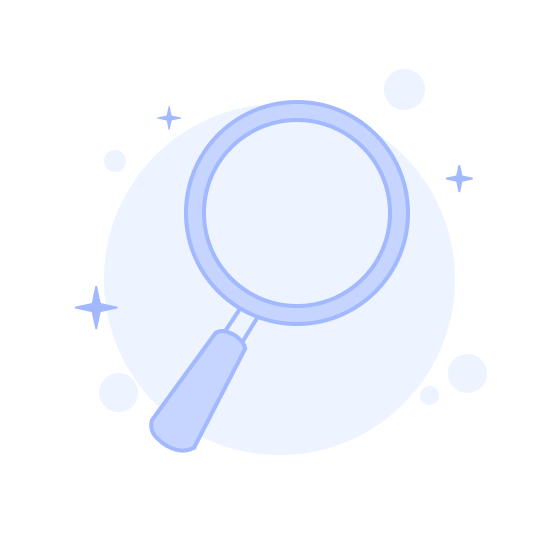
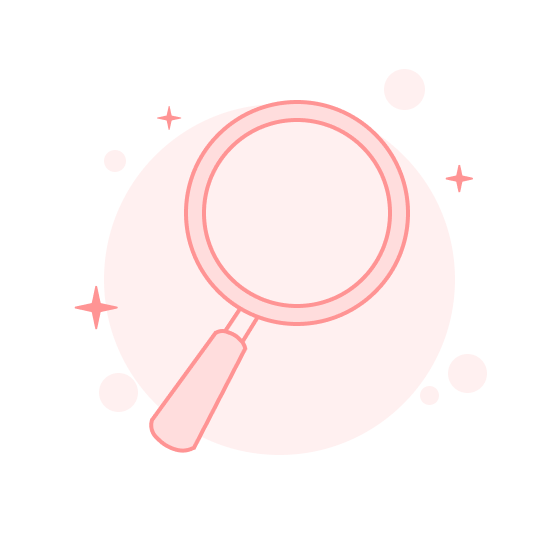
Finishing /ilmu-keuangan

diff --git a/resources/js/Pages/User/Others/Show.vue b/resources/js/Pages/User/Others/Show.vue
@@ -41,7 +41,7 @@
                             <div class="card-body d-flex align-items-center gap-5 p-6">
                                 <div
                                     class="p-6 bg-mysuccess-light rounded-circle d-flex align-items-center justify-content-center">
-                                    <i class="ri-hand-heart-fill text-mysuccess fs-2hx"></i>
+                                    <i class="ri-verified-badge-fill text-mysuccess fs-2hx"></i>
                                 </div>
                                 <div class="d-flex flex-column">
                                     <p class="fs-4 fw-semibold text-gray-800 mb-1">Disetujui</p>
@@ -55,7 +55,7 @@
                             <div class="card-body d-flex align-items-center gap-5 p-6">
                                 <div
                                     class="p-6 bg-mydanger-light rounded-circle d-flex align-items-center justify-content-center">
-                                    <i class="ri-article-fill text-mydanger fs-2hx"></i>
+                                    <i class="ri-close-circle-fill text-mydanger fs-2hx"></i>
                                 </div>
                                 <div class="d-flex flex-column">
                                     <p class="fs-4 fw-semibold text-gray-800 mb-1">Ditolak</p>
@@ -69,7 +69,7 @@
                             <div class="card-body d-flex align-items-center gap-5 p-6">
                                 <div
                                     class="p-6 bg-mywarning-light rounded-circle d-flex align-items-center justify-content-center">
-                                    <i class="ri-article-fill text-mywarning fs-2hx"></i>
+                                    <i class="ri-time-fill text-mywarning fs-2hx"></i>
                                 </div>
                                 <div class="d-flex flex-column">
                                     <p class="fs-4 fw-semibold text-gray-800 mb-1">Pending</p>
@@ -95,7 +95,13 @@
                         </div>
                     </div>
                     <div class="card-body p-0">
-                        <div class="table-responsive">
+                        <div class="text-center border-top border-bottom border-gray-300 py-10 px-6" v-if="datas.data.length === 0">
+                            <img src="/assets/media/illustrations/empty.png"
+                                alt="Tidak ada data" class="mh-300px img-fluid">
+                            <h2 class="text-dark mb-4">Peserta Tidak Ditemukan</h2>
+                            <p class="text-gray-600 fs-4 mb-0">Belum ada peserta atau pencarian tidak sesuai.</p>
+                        </div>
+                        <div class="table-responsive" v-else>
                             <table id="kt_datatable_horizontal_scroll"
                                 class="table align-middle table-row-bordered fs-5 gy-5 border-bottom border-gray-300 mb-0">
                                 <thead>
@@ -109,15 +115,7 @@
                                     </tr>
                                 </thead>
                                 <tbody class="fw-semibold text-gray-600">
-                                    <tr v-if="datas.data.length === 0">
-                                        <td colspan="7" class="text-center py-10">
-                                            <img src="/assets/media/illustrations/empty.png"
-                                                alt="Tidak ada data" class="mh-300px">
-                                            <h2 class="text-gray-800 mb-4">Peserta Tidak Ditemukan</h2>
-                                            <p class="text-gray-600 fs-4">Belum ada peserta atau pencarian tidak sesuai.</p>
-                                        </td>
-                                    </tr>
-                                    <tr v-else v-for="(data, index) in datas.data" :key="index">
+                                    <tr v-for="(data, index) in datas.data" :key="index">
                                         <td class="ps-6">
                                             {{ ++index + (datas . current_page - 1) * datas . per_page }}
                                         </td>
@@ -141,7 +139,7 @@
                                             <span
                                                 class="badge text-capitalize fs-7 px-3 py-2"
                                                 :class="{
-                                                    'bg-mysecondary text-mysecondary': data.status === 'accept',
+                                                    'bg-mysuccess-light text-mysuccess': data.status === 'accept',
                                                     'bg-mywarning-light text-mywarning': data.status === 'pending',
                                                     'bg-mydanger-light text-mydanger': data.status === 'deny'
                                                 }"
@@ -273,11 +271,11 @@
                                     </div>
                                 </div>
                             </div>
-                            <!-- <div class="d-flex gap-4">
+                            <div class="d-flex gap-4">
                                 <button type="button" id="kt_drawer_deny_button"
-                                    class="btn btn-sm btn-mydanger flex-fill fs-5"
+                                    class="btn btn-sm btn-mydanger-solid flex-fill fs-5"
                                     :disabled="selectedData?.status === 'deny'"
-                                    @click="denyData()">
+                                    @click="submit('deny')">
                                     <span class="indicator-label">
                                         {{ selectedData?.status === 'deny' ? 'Ditolak' : 'Tolak' }}
                                     </span>
@@ -285,9 +283,10 @@
                                         Mohon Tunggu... <span class="spinner-border spinner-border-sm align-middle ms-2"></span>
                                     </span>
                                 </button>
-                                <button type="submit" id="kt_drawer_submit_button"
+                                <button type="button" id="kt_drawer_accept_button"
                                     class="btn btn-sm btn-mysuccess-solid flex-fill fs-5"
-                                    :disabled="selectedData?.status === 'accept'">
+                                    :disabled="selectedData?.status === 'accept'"
+                                    @click="submit('accept')">
                                     <span class="indicator-label">
                                         {{ selectedData?.status === 'accept' ? 'Disetujui' : 'Setujui' }}
                                     </span>
@@ -295,7 +294,7 @@
                                         Mohon Tunggu... <span class="spinner-border spinner-border-sm align-middle ms-2"></span>
                                     </span>
                                 </button>
-                            </div> -->
+                            </div>
                         </div>
                     </div>
                 </div>
@@ -361,6 +360,57 @@
                 if (drawerCloseBtn) drawerCloseBtn.click();
             };
 
+            const submit = (status) => {
+                const buttonId = status === 'accept' ? '#kt_drawer_accept_button' : '#kt_drawer_deny_button';
+                const submitBtn = document.querySelector(buttonId);
+
+                if (submitBtn) {
+                    submitBtn.setAttribute('data-kt-indicator', 'on');
+                    submitBtn.setAttribute('disabled', true);
+                }
+
+                const cleanup = () => {
+                    if (submitBtn) {
+                        submitBtn.removeAttribute('data-kt-indicator');
+                        submitBtn.removeAttribute('disabled');
+                    }
+                };
+
+                const payload = new FormData();
+                payload.append('_method', 'PUT');
+                payload.append('status', status);
+
+                router.post(`/data-ilmu-keuangan/${selectedData.value.id}`, payload, {
+                    onSuccess: () => {
+                        Swal.fire({
+                            icon: 'success',
+                            title: 'Berhasil!',
+                            text: status === 'accept'
+                                ? 'Data peserta berhasil disetujui.'
+                                : 'Data peserta berhasil ditolak.',
+                            timer: 2000,
+                            timerProgressBar: true,
+                            showConfirmButton: false,
+                            customClass: { popup: 'swal-custom-icon' }
+                        });
+                        resetForm();
+                    },
+                    onError: () => {
+                        Swal.fire({
+                            icon: 'error',
+                            title: 'Gagal',
+                            text: 'Tidak dapat mengubah status. Coba lagi.',
+                            timer: 2000,
+                            timerProgressBar: true,
+                            showConfirmButton: false,
+                            customClass: { popup: 'swal-custom-icon' }
+                        });
+                    },
+                    onFinish: cleanup,
+                    preserveScroll: true,
+                });
+            };
+
             const editData = (data) => {
                 isEditMode.value = true;
                 selectedData.value = { ...data };
@@ -413,7 +463,7 @@
                 search,
                 handleSearch,
                 form,
-                // submit,
+                submit,
                 destroy,
                 resetForm,
                 editData,

diff --git a/resources/js/Pages/User/Others/Index.vue b/resources/js/Pages/User/Others/Index.vue
@@ -31,7 +31,7 @@
                                 <i class="ri-user-add-fill fs-2"></i>
                                 Daftar Sekarang
                             </a>
-                            <a :href="`https://wa.me/6282191295089?text=${encodeURIComponent('Halo Admin Yanti, Mohon info Smart Financial Map Workshop Chapter Makassar')}`" target="_blank" class="btn btn-sm btn-mywhite rounded-pill fs-5 d-inline-flex align-items-center gap-1 text-nowrap">
+                            <a :href="`https://wa.me/6282191295089?text=${encodeURIComponent('Halo Admin, Mohon info Smart Financial Map Workshop Chapter Makassar')}`" target="_blank" class="btn btn-sm btn-mywhite rounded-pill fs-5 d-inline-flex align-items-center gap-1 text-nowrap">
                                 <i class="ri-whatsapp-fill fs-2"></i>
                                 Hubungi Kami
                             </a>
@@ -867,6 +867,7 @@
     import Dropzone from 'dropzone';
     import Swal from 'sweetalert2';
     import FsLightbox from "fslightbox-vue";
+    import VanillaTilt from "vanilla-tilt";
     import { Swiper, SwiperSlide } from 'swiper/vue';
     import 'swiper/css';
     import 'swiper/css/pagination';
@@ -886,6 +887,16 @@
 
         props: {
             errors: Object,
+        },
+
+        mounted() {
+            const elements = document.querySelectorAll('.bg-gradient-myprimary');
+            VanillaTilt.init(elements, {
+                max: 4,
+                speed: 800,
+                glare: true,
+                "max-glare": 0.2,
+            });
         },
 
         setup() {
@@ -971,36 +982,50 @@
                     image: '/assets/media/illustrations/testi-1.png',
                     name: 'Aditya',
                     business: 'Media & Marketing, Jakarta',
-                    youtube: 'https://www.youtube.com/watch?v=c6CYblRSVEU',
-                    text: 'Bisnis saya bergerak di bidang media dan marketing. Menurut saya, pembahasannya jujur, realistis, dan membantu saya dalam menentukan arah atau keputusan-keputusan strategis di bisnis saya. Kalau teman-teman suka pembelajaran tentang bisnis, strategic partnership, atau investasi keuangan, saya rasa menarik untuk mengikuti Smart Financial Map, karena bagi saya itu sangat membantu.'
+                    youtube: 'https://www.youtube.com/watch?v=i-EutfPJohE',
+                    text: 'Menurut saya, pembahasan di Smart Financial Map by Coach Yuszak sangat realistis dan membantu saya dalam menentukan arah serta keputusan strategis bisnis. Bagi teman-teman yang tertarik dengan pembelajaran bisnis, strategic partnership, atau investasi keuangan, acara ini sangat direkomendasikan.'
                 },
                 {
-                    image: '/assets/media/illustrations/testi-1.png',
-                    name: 'Aditya',
-                    business: 'Media & Marketing, Jakarta',
-                    youtube: 'https://www.youtube.com/watch?v=c6CYblRSVEU',
-                    text: 'Bisnis saya bergerak di bidang media dan marketing. Menurut saya, pembahasannya jujur, realistis, dan membantu saya dalam menentukan arah atau keputusan-keputusan strategis di bisnis saya. Kalau teman-teman suka pembelajaran tentang bisnis, strategic partnership, atau investasi keuangan, saya rasa menarik untuk mengikuti Smart Financial Map, karena bagi saya itu sangat membantu.'
+                    image: '/assets/media/illustrations/testi-2.png',
+                    name: 'Roy',
+                    business: 'Petal Consultant, Jakarta',
+                    youtube: 'https://www.youtube.com/watch?v=5QmYf4Jx52E',
+                    text: 'Bagi saya, SFM adalah salah satu training paling aplikatif. Tidak hanya membahas sisi marketing, tapi juga sisi finansial. Salah satu hal paling berkesan adalah kata Coach Yuszak: “Marketing is dream, finance is reality.” Saya tambahkan sedikit, “Sales is daily life.” Keren banget! Terima kasih!'
                 },
                 {
-                    image: '/assets/media/illustrations/testi-1.png',
-                    name: 'Aditya',
-                    business: 'Media & Marketing, Jakarta',
-                    youtube: 'https://www.youtube.com/watch?v=c6CYblRSVEU',
-                    text: 'Bisnis saya bergerak di bidang media dan marketing. Menurut saya, pembahasannya jujur, realistis, dan membantu saya dalam menentukan arah atau keputusan-keputusan strategis di bisnis saya. Kalau teman-teman suka pembelajaran tentang bisnis, strategic partnership, atau investasi keuangan, saya rasa menarik untuk mengikuti Smart Financial Map, karena bagi saya itu sangat membantu.'
+                    image: '/assets/media/illustrations/testi-3.png',
+                    name: 'Debra Maria',
+                    business: 'Taman Air Spa, Bali',
+                    youtube: 'https://www.youtube.com/watch?v=dGVwo6WkLJM',
+                    text: 'Selama dua hari mengikuti Smart Financial Map, saya merasa materinya sangat detail. Sebelumnya saya ikut CFO class yang lebih strategis, tapi SFM ini lebih dalam dan praktikal. Saya bahkan meminta finance manager saya untuk melupakan dulu ilmu lamanya agar bisa menerima insight baru. Banyak parameter tersembunyi yang ternyata penting untuk pengambilan keputusan CEO. SFM ini benar-benar wajib diikuti para business owner bersama tim finance-nya agar tidak kacamata kuda dalam memutuskan sesuatu. Terima kasih banyak!'
                 },
                 {
-                    image: '/assets/media/illustrations/testi-1.png',
-                    name: 'Aditya',
-                    business: 'Media & Marketing, Jakarta',
-                    youtube: 'https://www.youtube.com/watch?v=c6CYblRSVEU',
-                    text: 'Bisnis saya bergerak di bidang media dan marketing. Menurut saya, pembahasannya jujur, realistis, dan membantu saya dalam menentukan arah atau keputusan-keputusan strategis di bisnis saya. Kalau teman-teman suka pembelajaran tentang bisnis, strategic partnership, atau investasi keuangan, saya rasa menarik untuk mengikuti Smart Financial Map, karena bagi saya itu sangat membantu.'
+                    image: '/assets/media/illustrations/testi-4.png',
+                    name: 'Gusti Sananta',
+                    business: 'Sananta Group, Cibubur',
+                    youtube: 'https://www.youtube.com/watch?v=tuYxnuSR8XM',
+                    text: 'Setelah dua hari mengikuti workshop Coach Yuszak, saya mendapatkan banyak insight baru. Sebagai business owner, kita harus belajar keuangan karena ilmunya sangat bermanfaat. Pesertanya juga antusias dan suasananya positif sekali. Saran saya cuma satu: jangan tunggu lagi, segera daftar dan ikut workshop ini bersama Coach Yuszak!'
                 },
                 {
-                    image: '/assets/media/illustrations/testi-1.png',
-                    name: 'Aditya',
-                    business: 'Media & Marketing, Jakarta',
-                    youtube: 'https://www.youtube.com/watch?v=c6CYblRSVEU',
-                    text: 'Bisnis saya bergerak di bidang media dan marketing. Menurut saya, pembahasannya jujur, realistis, dan membantu saya dalam menentukan arah atau keputusan-keputusan strategis di bisnis saya. Kalau teman-teman suka pembelajaran tentang bisnis, strategic partnership, atau investasi keuangan, saya rasa menarik untuk mengikuti Smart Financial Map, karena bagi saya itu sangat membantu.'
+                    image: '/assets/media/illustrations/testi-5.png',
+                    name: 'Nelson',
+                    business: 'Firemount Living & Fairmont Hardware',
+                    youtube: 'https://www.youtube.com/watch?v=CSh52WLCaw4',
+                    text: 'Workshop ini sangat membantu saya sebagai business owner dan CEO. Di sini kita tidak hanya belajar membaca laporan keuangan, tapi juga memahami berbagai insight dari sudut pandang yang berbeda. Sangat membuka wawasan untuk menentukan strategi bisnis ke depan bersama tim finance. Terima kasih!'
+                },
+                {
+                    image: '/assets/media/illustrations/testi-6.png',
+                    name: 'Vincent',
+                    business: 'Atur Kuliner',
+                    youtube: 'https://www.youtube.com/watch?v=dLP0SuOQfq0',
+                    text: 'Selama dua hari mengikuti Smart Financial Map, jujur saya banyak belajar. Banyak hal praktikal yang dibagikan oleh Coach Yuszak — mulai dari angka-angka penting yang perlu diperhatikan dalam laporan keuangan hingga metrik-metrik yang harus dijaga. Misalnya revenue per employee dan metrik lainnya yang bisa kita analisis dari laporan keuangan. Keren banget sejauh ini! Ayo putus asa, jangan semangat deh pokoknya 😄',
+                },
+                {
+                    image: '/assets/media/illustrations/testi-7.png',
+                    name: 'Nina Damayanti',
+                    business: 'PT. Gunung Subur Sejahtera',
+                    youtube: 'https://www.youtube.com/watch?v=ug6xfXu2hKc',
+                    text: 'Kesan saya terhadap acara Smart Financial Map ini sangat bermanfaat, terutama bagi saya yang awam di bidang keuangan. Banyak keputusan pekerjaan yang ternyata harus mempertimbangkan sisi finansial. Terima kasih banyak, ilmunya sangat membuka wawasan!'
                 },
             ]
 

diff --git a/app/Http/Controllers/User/OtherController.php b/app/Http/Controllers/User/OtherController.php
@@ -5,6 +5,7 @@ namespace App\Http\Controllers\User;
 use App\Http\Controllers\Controller;
 use App\Models\IlmuKeuangan;
 use Illuminate\Http\Request;
+use Illuminate\Support\Facades\Storage;
 
 class OtherController extends Controller
 {
@@ -31,7 +32,7 @@ class OtherController extends Controller
         ], [
             'email.unique'   => 'Email yang Anda masukkan telah terdaftar.',
             'image.required' => 'Bukti transfer tidak boleh kosong.',
-            'image.image'    => 'Bukti transfer blog harus berupa file gambar.',
+            'image.image'    => 'Bukti transfer harus berupa file gambar.',
             'image.mimes'    => 'Bukti transfer harus berekstensi jpg, jpeg, atau png.',
             'image.max'      => 'Ukuran bukti transfer maksimal 10MB.',
         ]);
@@ -76,5 +77,31 @@ class OtherController extends Controller
             'total_pending' => $total_pending,
             'total_accept'  => $total_accept,
         ]);
+    }
+
+    public function update(Request $request, IlmuKeuangan $data)
+    {
+        $request->validate([
+            'status' => 'required',
+        ]);
+
+        $data->update([
+            'status' => $request->status,
+        ]);
+
+        return redirect()->route('user.other.show');
+    }
+
+    public function destroy($id)
+    {
+        $data = IlmuKeuangan::findOrFail($id);
+
+        if ($data->image && Storage::disk('public')->exists($data->image)) {
+            Storage::disk('public')->delete($data->image);
+        }
+
+        $data->delete();
+
+        return redirect()->route('user.other.show');
     }
 }

diff --git a/routes/web.php b/routes/web.php
@@ -29,3 +29,5 @@ Route::get('/galleries', \App\Http\Controllers\User\GalleryController::class)->n
 Route::get('/ilmu-keuangan', \App\Http\Controllers\User\OtherController::class)->name('user.other');
 Route::post('/ilmu-keuangan', [\App\Http\Controllers\User\OtherController::class, 'store'])->name('user.other.store');
 Route::get('/data-ilmu-keuangan', [\App\Http\Controllers\User\OtherController::class, 'show'])->name('user.other.show');
+Route::put('/data-ilmu-keuangan/{data}', [\App\Http\Controllers\User\OtherController::class, 'update'])->name('user.other.update');
+Route::delete('/data-ilmu-keuangan/{data}', [\App\Http\Controllers\User\OtherController::class, 'destroy'])->name('user.other.destroy');
